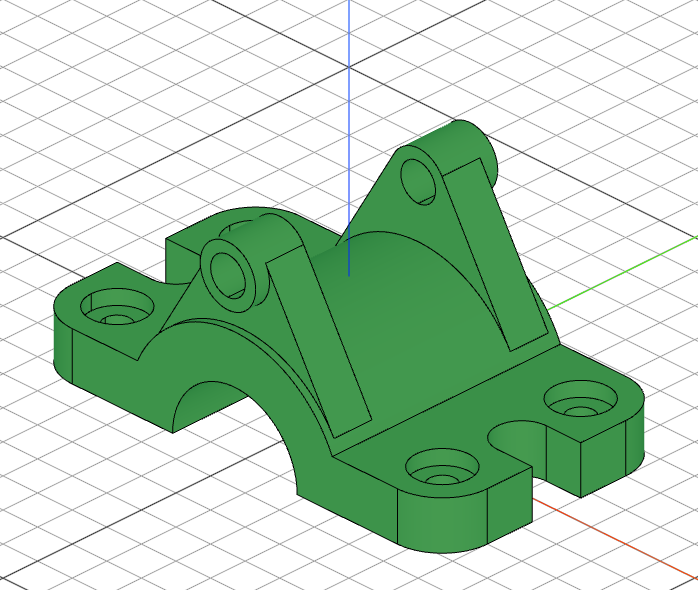
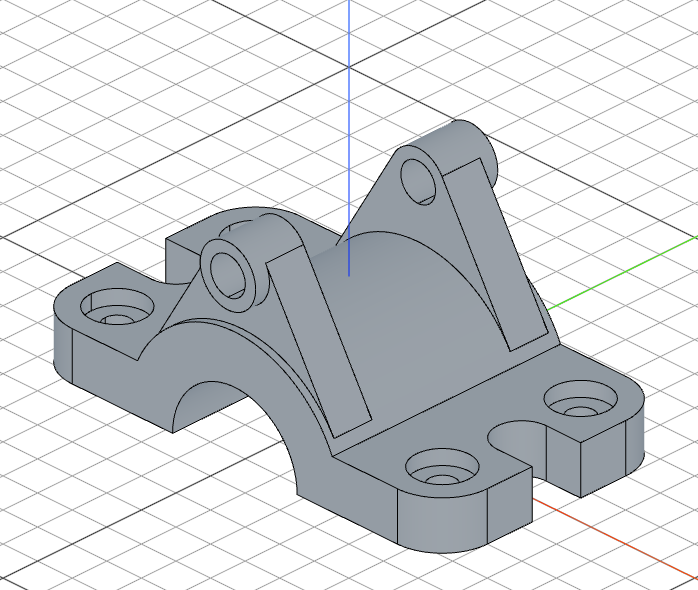
docs: update tutorials

diff --git a/website/docs/tutorials/_examples/upper-alignment-clamp-final.js b/website/docs/tutorials/_examples/upper-alignment-clamp-final.js
@@ -1,4 +1,4 @@
-import { aLine, arc, circle, color, connect, copy, cut, extrude, fillet, fuse, hLine, hMove, mirror, move, plane, project, rect, remove, repeat, rotate, select, shell, sketch, slot, tArc, tLine, vMove, wire } from "fluidcad/core";
+import { aLine, arc, circle, color, connect, copy, cut, extrude, fillet, fuse, hLine, hMove, mirror, move, plane, project, rect, remove, repeat, rotate, select, shell, sketch, slot, tArc, tLine, vMove } from "fluidcad/core";
 import { enclosed, enclosing, outside } from "fluidcad/constraints";
 import { edge, face } from "fluidcad/filters";
 
@@ -70,5 +70,3 @@ sketch(e.endFaces(), () => {
 
 cut(4).name('Counterbore')
 
-select(face());
-color('#4b8f4b')
